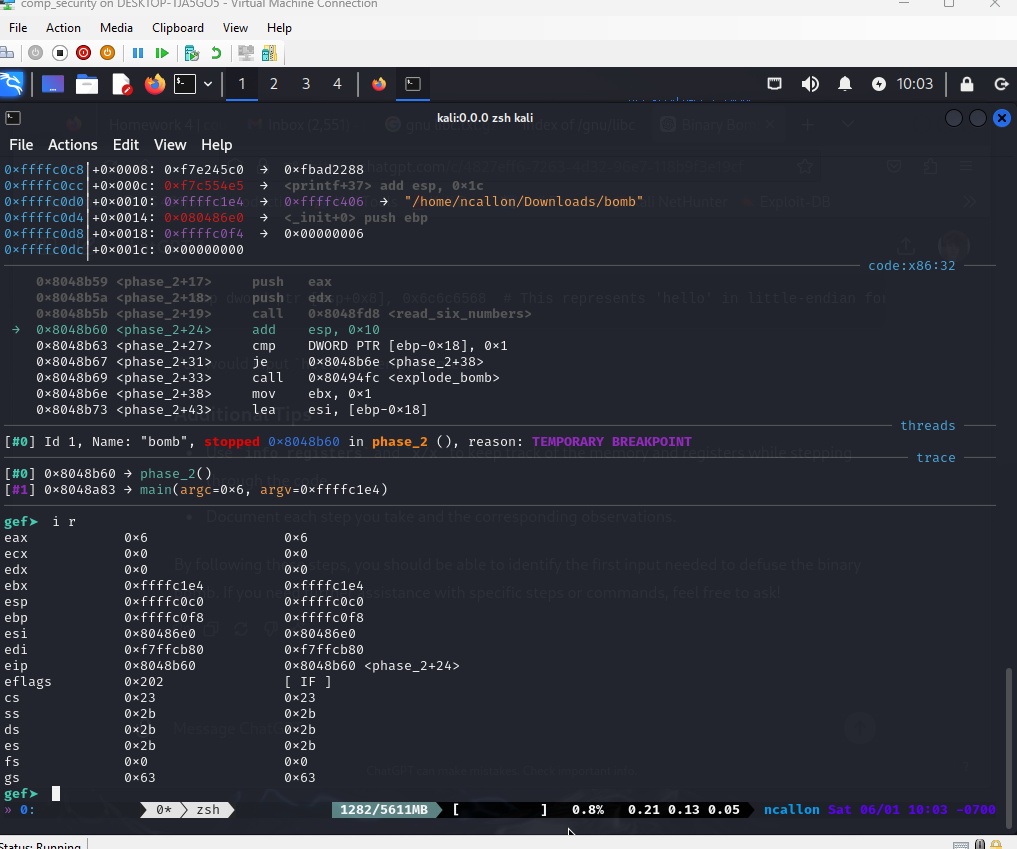
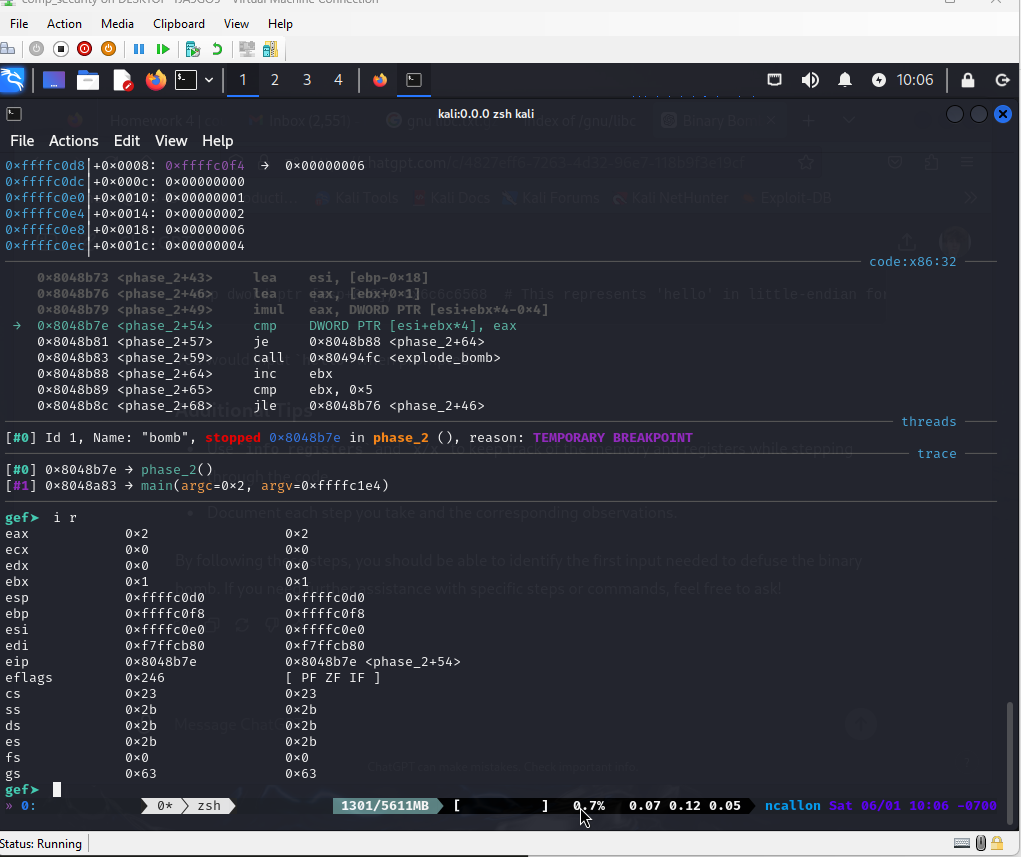
hw5

diff --git a/hw5/hw5.md b/hw5/hw5.md
@@ -56,9 +56,61 @@ I see two cmps, and I know that 0x1 is 1 in decimal so that the first input shou
 
 ![image 14](image-13.png)
 
-I notice 0x6 for eax, which is 6 in decimal.
+I look at the first compare (that's not the obvious 0x1) using the "until \*0x08048b7e" command at the address and I use "i r" to see eax is 0x2, or 2 in decimal.
 
 ![image 15](image-14.png)
+
+I use the same until agin, and now I see 0x6, or 6. Now I am trying "1 2 6 4 5 6".
+
+![image 16](image-15.png)
+
+I repeat and I see 0x18 (24), and add this so I now I have "1 2 6 24 5 6".
+
+![image 17](image-16.png)
+
+Now found 0x78, which is 120.
+
+![image 18](image-17.png)
+
+Found 0x2d0, which is 720.
+
+Now input "1 2 6 24 120 720", and wallah! It worked.
+
+![image 19](image-18.png)
+
+For phase_3, the first thing I notice is many different cmps followed by explode_bomb. I notice the first compare uses 0x80497de for eax.
+
+![image 20](image-19.png)
+
+It seems the input wants an integer, then a character, then an integer:
+
+![image 21](image-20.png)
+
+To get further into the code, I use the pattern "1 a 1", aka int char int, to see where it takes me now.
+
+I see that the first value after the lea assembly line to be compared is 0xd6 or 214.
+
+![image 22](image-21.png)
+
+I now try this with "1 a 214", as 1 worked for the first digit.
+
+I see that bl is the final compare, and I use "until \*0x8048c8f" to be able to see bl in the latest context, which despite giving weird errors shows me the value "0x62".
+
+![image 23](image-22.png)
+
+I know that this is a character, so if we use a ASCII table to see 0x62, and we go to the ASCII table and see which character this corresponds to:
+
+![image 24](image-23.png)
+
+So I am now trying "1 b 214":
+
+And it works!
+
+![image 25](image-24.png)
+
+I set a breakpoint at phase_4, and I start out by seeing the same sscan format checker I saw in phase_3:
+
+![image 26](image-25.png)
 
 Odin ID: 945912805
 PSU ID: ncallon
